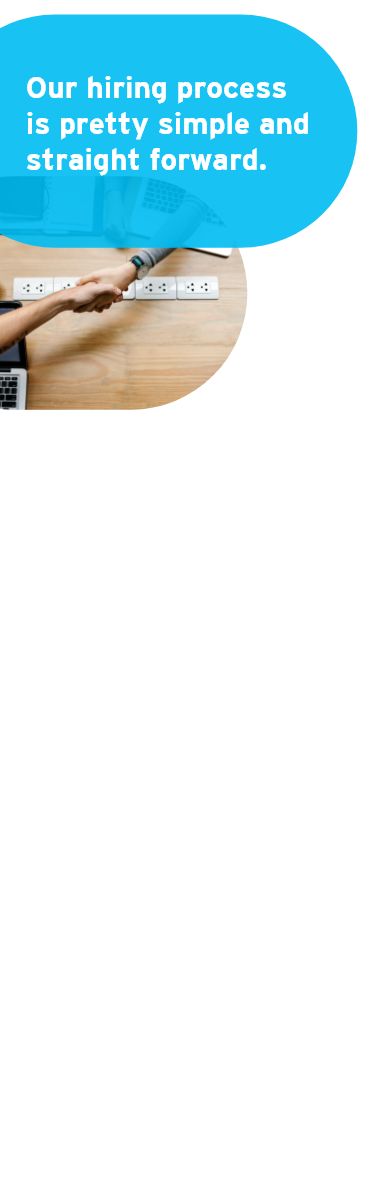
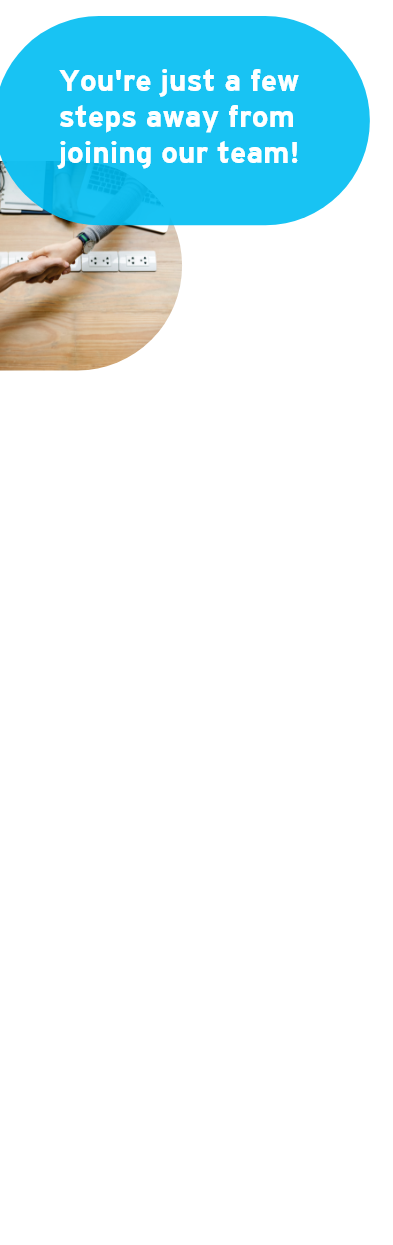
many changes

diff --git a/TEP/tep.html b/TEP/tep.html
@@ -53,7 +53,7 @@
         <div Id="wrapper">
             <section class="top-header-spacing list-margin">
                 <ul>
-                    <li>
+                    <li class="ul-li">
                         <img src="Icons/Benefits_Section/Skill_Growth.svg" class="list-spacing svg-roles-scaling">
                         <!-- Wrapped into div -->
                         <div class="details">
@@ -61,7 +61,7 @@
                             <h4 class="interstate overflow">Benefit from technical training, free access to educational tools, and a culture that values continuous learning.</h4>
                         </div>
                     </li>
-                    <li>
+                    <li class="ul-li">
                         <img src="Icons/Benefits_Section/Support.svg" class="list-spacing svg-roles-scaling">
                         <!-- Wrapped into div -->
                         <div class="details">
@@ -70,7 +70,7 @@
                                 <button class="button-styling">Roles</button>
                         </div>
                     </li>
-                    <li>
+                    <li class="ul-li">
                         <img src="Icons/Benefits_Section/Community.svg" class="list-spacing svg-roles-scaling">
                         <!-- Wrapped into div -->
                         <div class="details">
@@ -79,7 +79,7 @@
                                 <button class="button-styling">Learn More</button>
                         </div>
                     </li>
-                    <li>
+                    <li class="ul-li">
                         <img src="Icons/Benefits_Section/Impact.svg" style="height:125px;" class="list-spacing svg-roles-scaling">
                         <!-- Wrapped into div -->
                         <div class="details">
@@ -110,25 +110,25 @@
                 <center>
                         <div class="row top-header-spacing svg-container-margins">
                             <div class="col-lg-6 col-sm-6">
-                                <img class="svg-roles-scaling" src="Icons/Possible_Roles_Section/Development Icon.svg">
-                                <h3 class="interstate-bold">Development</h3>
-                                <p class="interstate-light">We've got it all, whether it's building features for Citi Mobile on iOS (Swift & X-Code) or Android (Android Studio), creating something new for Citibank Online (Angular), engineering a new microservice (Java, Spring), or working on the back-end systems that power one of the world's biggest financial instituations (Java, SQL, COBOL). We prefer our engineers to be well-rounded, so you'll likely have an opportunity to work on more than one of these.</p>
-                            </div>
-                            <div class="col-lg-6 col-sm-6">
                                 <img class="svg-roles-scaling" src="Icons/Possible_Roles_Section/Data Science Icon.svg">
                                 <h3 class="interstate-bold">Data Science</h3>
-                                <p class="interstate-light">We've got it all, whether it's building features for Citi Mobile on iOS (Swift & X-Code) or Android (Android Studio), creating something new for Citibank Online (Angular), engineering a new microservice (Java, Spring), or working on the back-end systems that power one of the world's biggest financial instituations (Java, SQL, COBOL). We prefer our engineers to be well-rounded, so you'll likely have an opportunity to work on more than one of these.</p>
+                                <p class="interstate-light">Provide the insights that help us make the best decisions for our customers and ensure we’re operating at the highest levels of efficiency. Build out our big data architecture, work with analytics tools, and develop new capabilities.</p>
                             </div>
-                            <div class="col-lg-6 col-sm-6 top-header-spacing">
+                            <div class="col-lg-6 col-sm-6">
                                 <img class="svg-roles-scaling" src="Icons/Possible_Roles_Section/Platform Engineering Icon.svg">
                                 <h3 class="interstate-bold">Platform Engineering</h3>
-                                <p class="interstate-light">We've got it all, whether it's building features for Citi Mobile on iOS (Swift & X-Code) or Android (Android Studio), creating something new for Citibank Online (Angular), engineering a new microservice (Java, Spring), or working on the back-end systems that power one of the world's biggest financial instituations (Java, SQL, COBOL). We prefer our engineers to be well-rounded, so you'll likely have an opportunity to work on more than one of these.</p>
+                                <p class="interstate-light">Drive our software architecture, our technology roadmap, and our relationships with enterprise partners. Empower our workforce by providing the tools and platforms that help us reach our goals, and work with cloud technologies.</p>
                             </div>
                             <div class="col-lg-6 col-sm-6 top-header-spacing">
                                     <img class="svg-roles-scaling" src="Icons/Possible_Roles_Section/TPM Icon.svg">
                                     <h3 class="interstate-bold">Technical Product Management</h3>
-                                <p class="interstate-light">We've got it all, whether it's building features for Citi Mobile on iOS (Swift & X-Code) or Android (Android Studio), creating something new for Citibank Online (Angular), engineering a new microservice (Java, Spring), or working on the back-end systems that power one of the world's biggest financial instituations (Java, SQL, COBOL). We prefer our engineers to be well-rounded, so you'll likely have an opportunity to work on more than one of these.</p>
+                                <p class="interstate-light">Own the technical vision for products tied to a customer journey. Work with product owners to transform business requirements and customer experiences into tech-ready user stories. Collaborate with a team of engineers to bring the platform product roadmap to life.</p>
                             </div>
+                            <div class="col-lg-6 col-sm-6 top-header-spacing">
+                                    <img class="svg-roles-scaling" src="Icons/Possible_Roles_Section/Development Icon.svg">
+                                    <h3 class="interstate-bold">Development</h3>
+                                    <p class="interstate-light">We've got it all, whether it's building features for Citi Mobile on iOS (Swift & X-Code) or Android (Android Studio), creating something new for Citibank Online (Angular), engineering a new microservice (Java, Spring), or working on the back-end systems that power one of the world's biggest financial instituations (Java, SQL, COBOL). We prefer our engineers to be well-rounded, so you'll likely have an opportunity to work on more than one of these.</p>
+                                </div>
                         </div>
                 </center>
             </div>
@@ -224,24 +224,17 @@
                     <center>
                         <div class="row top-header-spacing svg-container-margins">
                             <div class="top-header-spacing">
-                                <div class="col-lg-4">
+                                <div class="col-lg-6">
                                     <img class="svg-testimonials-scaling" src="Testimonial/Anish.png">
-                                    <h2 class="interstate-bold">Anish LastName</h2>
-                                    <p class="interstate-light">Text goes here, all of the text. Every single text for the testimonial. I love Citi. Citi is the GOAT. I literally don't wanna leave the campus ever.</p>
+                                    <h2 class="interstate-bold">Anish Timila</h2>
+                                    <p class="interstate-light">TEP program gives lot of flexibility of learning here at Citi. Everyone here is really helpful and give you opportunities to develop and grow. My manager also volunteered me to contribute to rebranding of Citi's auction site and also had been working on the Angular integration with the Drupal Content Management System. There is good exposure to senior leadership and strong bonding with TEP family. </p>
                                 </div>
                             </div>
                                 <div class="top-header-spacing">
-                                    <div class="col-lg-4">
-                                        <img class="svg-testimonials-scaling" src="Testimonial/Anish.png">
-                                        <h2 class="interstate-bold">Anish LastName</h2>
-                                        <p class="interstate-light">Text goes here, all of the text. Every single text for the testimonial. I love Citi. Citi is the GOAT. I literally don't wanna leave the campus ever.</p>
-                                    </div>
-                                </div>
-                                <div class="top-header-spacing">
-                                    <div class="col-lg-4">
-                                        <img class="svg-testimonials-scaling" src="Testimonial/Anish.png">
-                                        <h2 class="interstate-bold">Anish LastName</h2>
-                                        <p class="interstate-light">Text goes here, all of the text. Every single text for the testimonial. I love Citi. Citi is the GOAT. I literally don't wanna leave the campus ever.</p>
+                                    <div class="col-lg-6">
+                                        <img class="svg-testimonials-scaling" src="Testimonial/Kate.png">
+                                        <h2 class="interstate-bold">Kate Callahan</h2>
+                                        <p class="interstate-light">The onboarding process means you have a built-in network of people who are going through the exact same thing you are. It's incredibly helpful to have a group of people who understand exactly what you're going through. I also love the connections I've made with my team. It took a while to get to know everyone, but most were very friendly, and open to answering questions as I got ramped up. A few months in, the whole team surprised me with birthday cake after a meeting. I definitely feel the love.</p>
                                     </div>
                                 </div>
                         </div>
@@ -249,44 +242,57 @@
             </header>
         </section>
 
-        
+        <center>
+            <br><br><br>
+            <hr width="90%">
+        </center>
 
         <section class="hiring-image">
                 <div Id="wrapper">
                     <section class="top-header-spacing list-margin">
                         <ul>
-                            <li>
+                            <li> 
                                 <img src="Icons/Hiring_Process_Section/Qualifications Icon.svg" class="list-spacing svg-roles-scaling">
                                 <!-- Wrapped into div -->
                                 <div class="details">
                                     <h3 class="interstate-bold ">Qualifications</h3>
                                     <h4 class="interstate overflow"><strong>Bachelor's/Master's in:</strong> <br>Computer Science, Computer Engineering, or Information Systems</h4>
+                                    <h4 class="interstate overflow list-overflow-text">We will also consider equivalent technical skills in lieu of a degree</h4>
+                                    <h4 class="interstate overflow list-overflow-text">Experience with software development, excellent communication skills, and a great teammate</h4>
                                 </div>
                             </li>
                             <li>
                                 <img src="Icons/Hiring_Process_Section/Apply Online Icon.svg" class="list-spacing svg-roles-scaling">
                                 <!-- Wrapped into div -->
                                 <div class="details">
-                                        <h3 class="interstate-bold ">Apply Online!</h3>
-                                        <h4 class="interstate overflow">Whether you meet in with a recruiter in person or not, you must apply online to be considered.</h4>
+                                        <h3 class="interstate-bold">Apply Online!</h3>
+                                        <h4 class="interstate overflow">Whether you meet with a recruiter in person or not, you must apply online to be considered.</h4>
                                         <button class="button-styling">Apply Here!</button>
                                 </div>
                             </li>
                             <li>
-                                <img src="Icons/Hiring_Process_Section/Woman Chat Blue - Hiring Process.svg" class="list-spacing svg-roles-scaling">
+                                    <img src="Icons/Hiring_Process_Section/Test.svg" class="list-spacing svg-roles-scaling">
+                                    <!-- Wrapped into div -->
+                                    <div class="details">
+                                            <h3 class="interstate-bold ">Take a Coding Test</h3>
+                                            <h4 class="interstate overflow">For those seeking software engineering roles, don’t wait for us to reach out! The best way to get our attention is by acing one of these tests, which you can take at any time.</h4>
+                                            <button class="button-styling">Take the Test</button>
+                                    </div>
+                                </li>
+                            <li>
+                                <img src="Icons/Hiring_Process_Section/Final_Round.svg" class="list-spacing svg-roles-scaling">
                                 <!-- Wrapped into div -->
                                 <div class="details">
-                                        <h3 class="interstate-bold ">Interview</h3>
-                                        <h4 class="interstate overflow">Multi-step interview process including behavioral & technical portions. "Super Day" for final round candidates.</h4>
-                                        <button class="button-styling">Learn More</button>
+                                        <h3 class="interstate-bold ">Final Round</h3>
+                                        <h4 class="interstate overflow">The last step involves behavioral and technical interviews, either in person at our office or via video conference.</h4>
                                 </div>
                             </li>
                             <li>
-                                <img src="Icons/Hiring_Process_Section/Blue Woman.svg" class="list-spacing svg-roles-scaling">
+                                <img src="Icons/Hiring_Process_Section/Blue_Woman.svg" class="list-spacing svg-roles-scaling">
                                 <!-- Wrapped into div -->
                                 <div class="details">
                                         <h3 class="interstate-bold ">You're a TEP!</h3>
-                                        <h4 class="interstate overflow">After accepting the offer, you'll join Citi's elite force of innovation and leadership.</h4>
+                                        <h4 class="interstate overflow">After accepting the offer, you'll join Citi alongside a crew of other TEPs.</h4>
                                 </div>
                             </li>
                         </ul>

diff --git a/TEP/tep.css b/TEP/tep.css
@@ -125,6 +125,11 @@
     max-width: 90%;
 }
 
+.svg-hiring-scaling {
+    height: 110px;
+    width: 110px;
+}
+
 .svg-container-margins {
     margin-left: 5%;
     margin-right: 5%;
@@ -133,6 +138,19 @@
 .svg-location-container-margins {
     margin-left: 10%;
     margin-right: 10%;
+}
+
+.list-overflow-text{
+    margin-left: 100px;
+}
+
+hr {
+    display: block;
+    height: 1px;
+    border: 0;
+    border-top: 1px solid #333333;
+    margin: 1em 0;
+    padding: 0;
 }
 
 .interstate {
@@ -175,7 +193,7 @@ src: url("../Fonts/Interstate_Light.ttf");
     }
 
     .benefits-image {
-        background-image: url("Backgrounds/Mobile/Hiring_Process.png"); /* The image used */
+        background-image: url("Backgrounds/Mobile/Benefits.png"); /* The image used */
         height: 1300px; /* You must set a specified height */
         background-position: center; /* Center the image */
         background-repeat: no-repeat; /* Do not repeat the image */
@@ -185,7 +203,7 @@ src: url("../Fonts/Interstate_Light.ttf");
 
     .hiring-image {
         background-image: url("Backgrounds/Mobile/Hiring_Process.png"); /* The image used */
-        height: 1300px; /* You must set a specified height */
+        height: 100%; /* You must set a specified height */
         background-position: center; /* Center the image */
         background-repeat: no-repeat; /* Do not repeat the image */
         background-size: cover; /* Resize the background image to cover the entire container */
@@ -238,7 +256,7 @@ src: url("../Fonts/Interstate_Light.ttf");
         display: table;
         margin-right: 3%;
     }
-
+    
     #wrapper ul li img {
         float: center;
     }
@@ -313,7 +331,7 @@ src: url("../Fonts/Interstate_Light.ttf");
     #wrapper ul {
         padding: 0;
         margin-top: 65%;
-        width: 50%;
+        width: 58%;
         margin-left: 40%;
         list-style-type: none;
     }
@@ -347,7 +365,7 @@ src: url("../Fonts/Interstate_Light.ttf");
     .hiring-image {
         background-image: url("Backgrounds/Tablet/Hiring.png"); /* The image used */
         background-color: #cccccc; /* Used if the image is unavailable */
-        height: 120vh; /* You must set a specified height */
+        height: 100%; /* You must set a specified height */
         width: 100%;
         background-position: center; /* Center the image */
         background-repeat: no-repeat; /* Do not repeat the image */
@@ -437,7 +455,7 @@ src: url("../Fonts/Interstate_Light.ttf");
     .program-overview-image {
         background-image: url("Backgrounds/Desktop/Full-Time.png"); /* The image used */
         background-color: #cccccc; /* Used if the image is unavailable */
-        height: 110vh; /* You must set a specified height */
+        height: 80vh; /* You must set a specified height */
         background-position: center; /* Center the image */
         background-repeat: no-repeat; /* Do not repeat the image */
         background-size: cover; /* Resize the background image to cover the entire container */
@@ -446,7 +464,7 @@ src: url("../Fonts/Interstate_Light.ttf");
 
     .roles-styling {
         background-color: white; /* Used if the image is unavailable */
-        height: 100vh; /* You must set a specified height */
+        height: 90vh; /* You must set a specified height */
         display: inline-block;
     }   
 
@@ -464,7 +482,7 @@ src: url("../Fonts/Interstate_Light.ttf");
     .hiring-image {
         background-image: url("Backgrounds/Desktop/Hiring_Background.png"); /* The image used */
         background-color: #cccccc; /* Used if the image is unavailable */
-        height: 120vh; /* You must set a specified height */
+        height: 105vh; /* You must set a specified height */
         background-position: center; /* Center the image */
         background-repeat: no-repeat; /* Do not repeat the image */
         background-size: cover; /* Resize the background image to cover the entire container */
@@ -482,6 +500,7 @@ src: url("../Fonts/Interstate_Light.ttf");
     .testimonial-styling {
         height: 95vh; /* You must set a specified height */
         display: inline;
+        background-color: #333333;
     }
 
 
@@ -494,12 +513,12 @@ src: url("../Fonts/Interstate_Light.ttf");
     #wrapper ul {
         padding: 0;
         margin: auto;
-        width: 80%;
+        width: 100%;
         list-style-type: none;
     }
 
     #wrapper ul li {
-        padding: 30px;
+        padding: 0px;
         margin-bottom: 20px;
         display: table;
     }
@@ -513,12 +532,14 @@ src: url("../Fonts/Interstate_Light.ttf");
     }
 
     .list-margin { 
-        margin-top: 5;
+        margin-top: 5%;
+        margin-left: 50%;
     } 
 
     .padding-top{
         padding-top: 5%;
     }
+    
 }
 
 /* Footer Styling */
